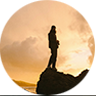
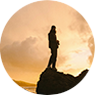
with CSS1

diff --git a/index.html b/index.html
@@ -3,13 +3,23 @@
   <head>
 
     <meta charset="UTF-8">
-    <title>Ruedee social page</title>
-    <link href="css/style.css" rel="stylesheet">
+
+    <title>Ruedee links</title>
 
     <style>
       *{
         border: thin red dotted;
       }
+    </style>
+
+    <style>
+
+      body { 
+        padding-top: 40px;
+        padding-bottom: 40px;
+      }
+
+        
     </style>
 
   </head>
@@ -19,6 +29,7 @@
       
       <!--profile image-->
       <div class="image-row">
+        <img class="avartar-image" src="/img/profile1.png" alt="profile picture">
         <p></p>
       </div>
 
@@ -63,7 +74,7 @@
         </div>
 
       </div> <!--link rows-->
-
     </div> <!--main container-->
+
   </body>
 </html>
